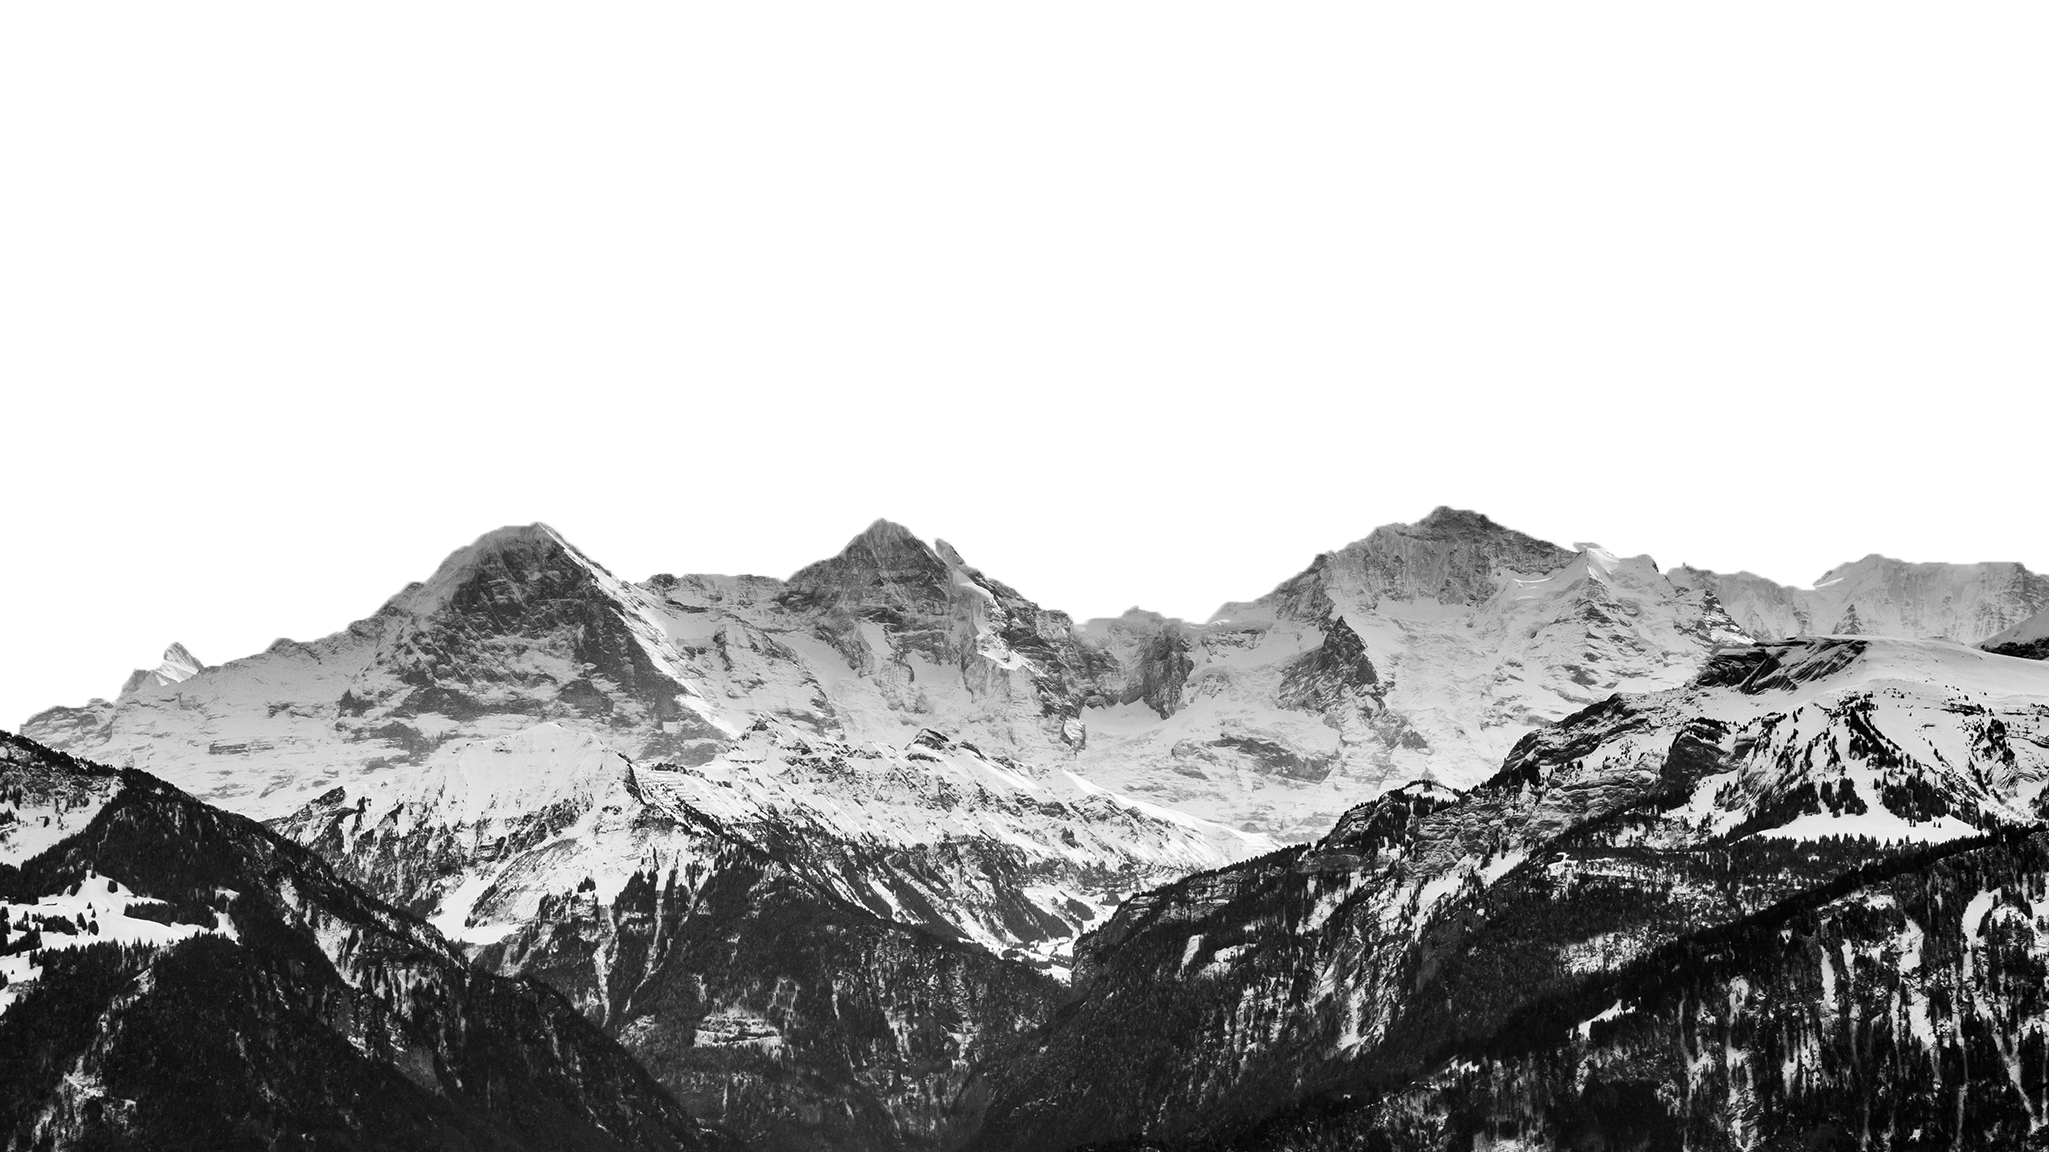
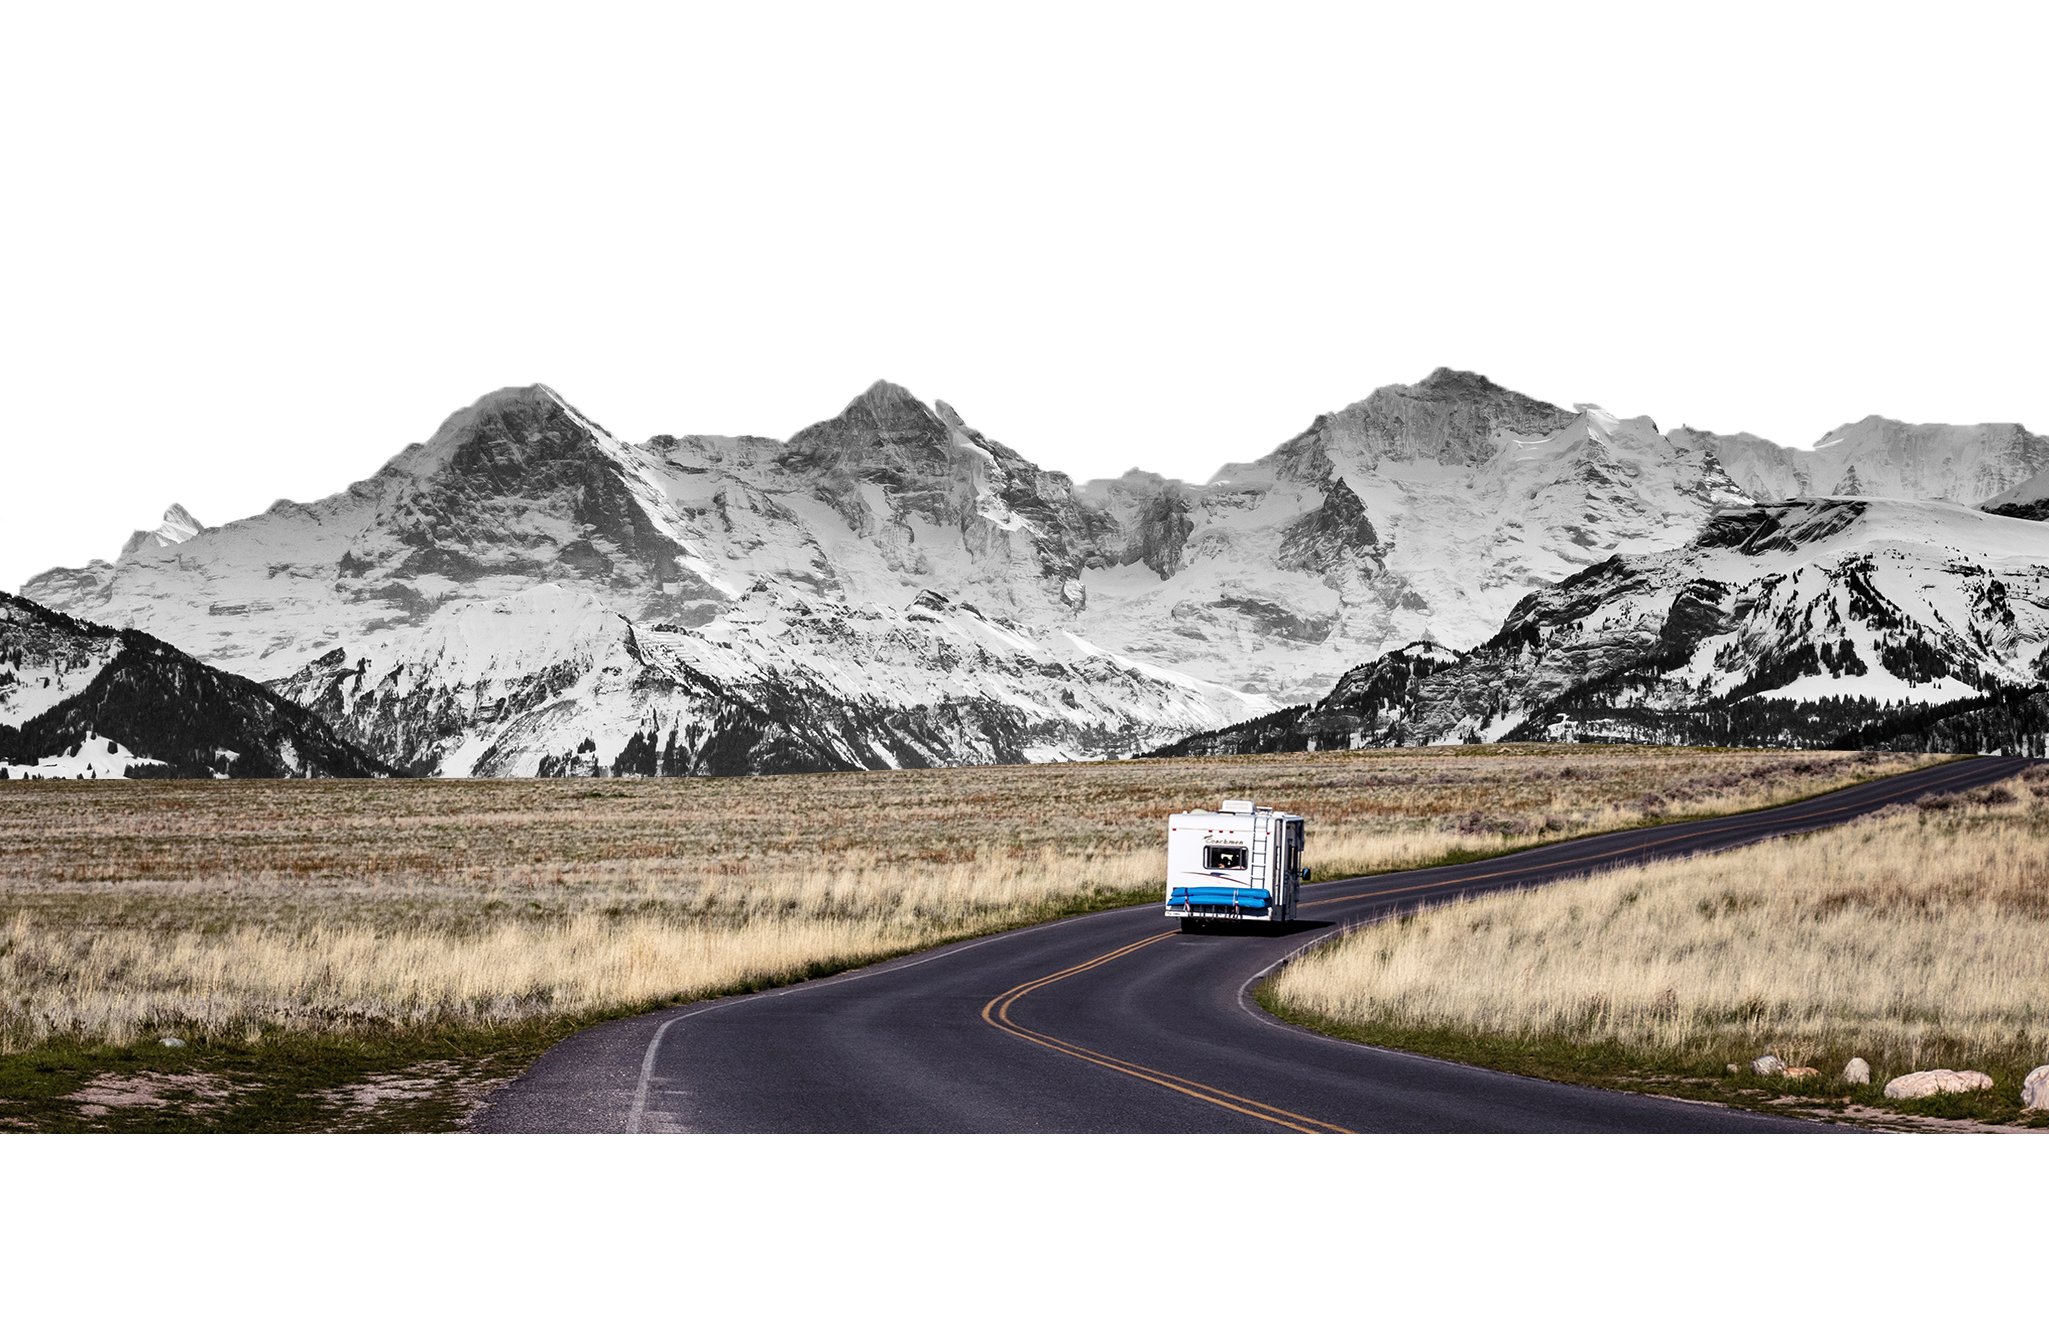
top重置完成

diff --git a/newCss.css b/newCss.css
@@ -1,0 +1,86 @@
+body {
+  width: 100vw;
+  height: 300vh;
+  overflow-x: hidden;
+  background: #0a2633;
+  color: aliceblue;
+  transition: 1s;
+}
+header {
+  width: 100vw;
+  height: 250vh;
+  background: url(./images/bg.png);
+  background-position: center 0px;
+  background-size: cover;
+  background-repeat: no-repeat;
+  overflow: hidden;
+  font-size: 52px;
+  text-align: center;
+  position: relative;
+  top: 0%;
+}
+header::before {
+  content: "";
+  width: 100vw;
+  height: 100vh;
+  background: url(./images/moon.png);
+  background-position: center center;
+  background-size: cover;
+  background-repeat: no-repeat;
+  position: absolute;
+  top: 0%;
+  left: -5%;
+}
+header::after {
+  content: "";
+  width: 100vw;
+  height: 130vh;
+  background: url(./images/mountain2.png);
+  background-position: center center;
+  background-size: cover;
+  background-repeat: no-repeat;
+  position: absolute;
+  top: 40%;
+  left: 0;
+  z-index: 11;
+}
+header h1 {
+  color: aliceblue;
+  font-size: 58px;
+  font-family: "Rock Salt", cursive;
+  /* font-family: "Raleway", sans-serif; */
+  font-weight: 500;
+  z-index: 10;
+  position: relative;
+  margin: 0px auto;
+  top: 20%;
+  /*left: 30%; */
+}
+header h2 {
+  color: aliceblue;
+  font-size: 18px;
+  /* font-family: "Rock Salt", cursive; */
+  font-family: "Raleway", sans-serif;
+  position: relative;
+  width: 300px;
+  height: 20px;
+  line-height: 20px;
+  margin: 0 auto;
+  top: 21%;
+  /* left: 54%; */
+  z-index: 10;
+  background: url(./images/road.png);
+}
+/* header h2::after {
+  content: "";
+  width: 120vw;
+  height: 100vh;
+  background: ;
+  background-position: 0 -400px;
+  background-size: cover;
+  background-repeat: no-repeat;
+  position: absolute;
+  top: -200%;
+  left: -300%;
+  z-index: 30;
+} */

diff --git a/CSS Zen Garden_ The Beauty of CSS Design.html b/CSS Zen Garden_ The Beauty of CSS Design.html
@@ -11,6 +11,11 @@
 	<meta name="author" content="Dave Shea">
 	<meta name="description" content="A demonstration of what can be accomplished visually through CSS-based design.">
 	<meta name="robots" content="all">
+	<link rel="stylesheet" href="./newCss.css">
+	<link rel="stylesheet" href="./reset.css">
+	<link href="https://fonts.googleapis.com/css2?family=Raleway:wght@100;200;300;400;500;600;700;800;900&display=swap"
+		rel="stylesheet">
+	<link href="https://fonts.googleapis.com/css2?family=Rock+Salt&display=swap" rel="stylesheet">
 
 
 	<!--[if lt IE 9]>
@@ -52,9 +57,9 @@
 <div class="page-wrapper">
 
 	<section class="intro" id="zen-intro">
-		<header role="banner">
-			<h1>CSS Zen Garden</h1>
-			<h2>The Beauty of <abbr title="Cascading Style Sheets">CSS</abbr> Design</h2>
+		<header role="banner" id="header">
+			<h1 id="title1">CSS Zen Garden</h1>
+			<h2 id="title2">The Beauty of <abbr title="Cascading Style Sheets">CSS</abbr> Design</h2>
 		</header>
 
 		<div class="summary" id="zen-summary" role="article">
@@ -194,5 +199,18 @@
 <div class="extra1" role="presentation"></div><div class="extra2" role="presentation"></div><div class="extra3" role="presentation"></div>
 <div class="extra4" role="presentation"></div><div class="extra5" role="presentation"></div><div class="extra6" role="presentation"></div>
 
+<script>
+	let header = document.getElementById('header')
+	let h1 = document.getElementById('title1')
+	let h2 = document.getElementById('title2')
 
+	window.addEventListener('scroll', function () {
+		const value = window.scrollY;
+		header.style.backgroundPositionY = 0 -value * 0.15 + 'px';
+		if(value<600){
+			h1.style.top = 20+ (value * 0.05) + '%';
+			h2.style.top = 21 + (value * 0.05) + '%';
+		}
+	})
+</script>
 </body></html>
